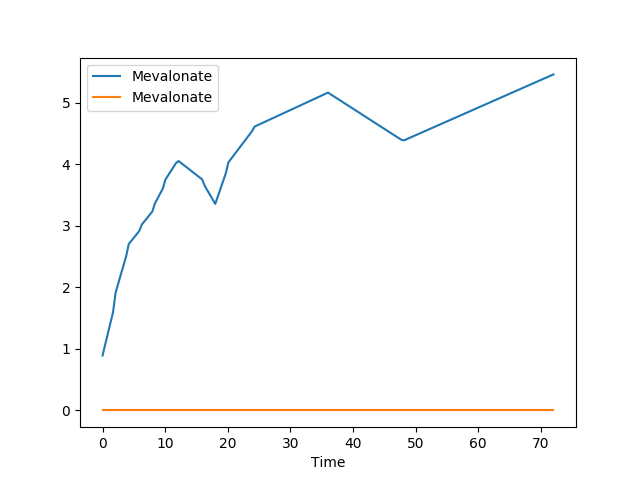
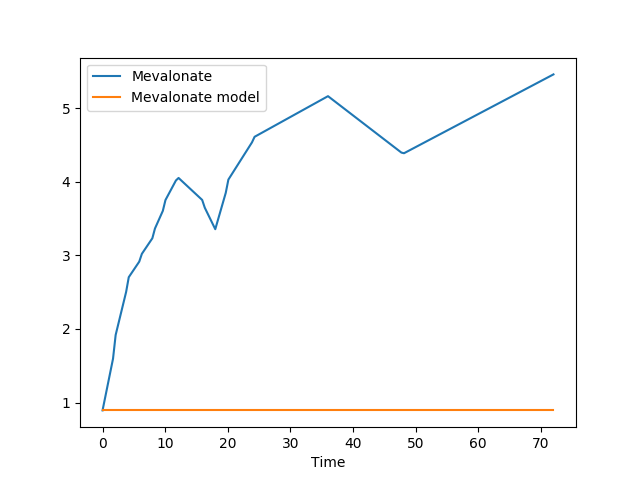
First successful set of iterations

diff --git a/learnlimolenedynamics.py b/learnlimolenedynamics.py
@@ -73,14 +73,16 @@ def sampler(val, val_rng, sigma, aug=False, win=False, pol=False):
             ax = plt.gca()
             control = strain_df['states'].loc[strain_df.index.get_level_values(0) == 'L2'].reset_index()
             model = trajectory_df
-            control.plot(x='Time', y=metabolite, ax=ax)
-            model.plot(x='Time', y=metabolite, ax=ax)
+            control.plot(x='Time', y=metabolite, ax=ax, label=metabolite)
+            metabolite_name = str(metabolite) + " model"
+            model.plot(x='Time', y=metabolite, ax=ax, label=metabolite_name)
             print("Metabolite:", metabolite)
             err = square_error(np.array(control[metabolite]), np.array(model[metabolite]))
             print("Square Error:", err)
             score += err
 
             plt.savefig(str(inits)+str(metabolite).replace('/', '_')+str(val))
+        plt.close('all')
 
 
         # SCORE IT
@@ -89,11 +91,11 @@ def sampler(val, val_rng, sigma, aug=False, win=False, pol=False):
         # CHOOSE NEXT
         mu = scores[np.argmin([row[1] for row in scores])][0]  # best score position
         if inits == 0:
-            val = round(min(val_rng) + (2 / 3) * (max(val_rng) - min(val_rng)))
+            val = int(round(min(val_rng) + (2 / 3) * (max(val_rng) - min(val_rng))))
         else:
             while val > max(val_rng) or val < min(val_rng) or val == scores[inits][0]:
                 print("Old var: " + str(mu))
-                val = round(sigma * np.random.randn() + mu)  # samples next point from normal dist around current best
+                val = int(round(sigma * np.random.randn() + mu))  # samples next point from normal dist around current best
                 print("New var picked: " + str(val))
 
         print(scores)
